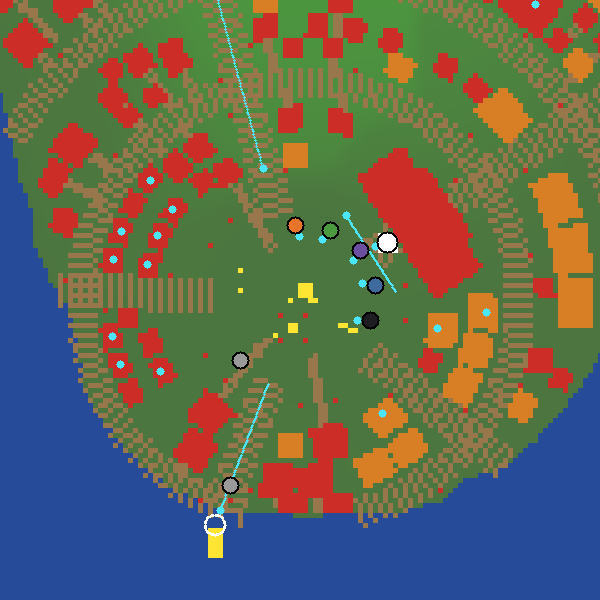
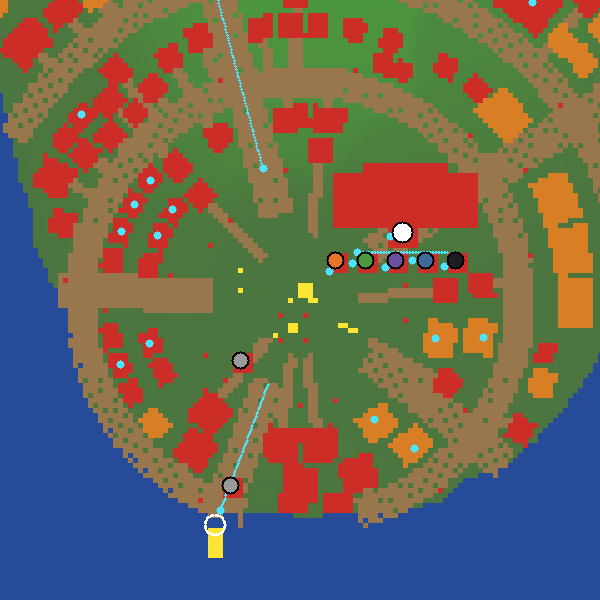
FACTIONS: the hall, boards and benches on the BuildGrid, facing south (owner rule)
The hall stands north-east of the square, east of the road north, front to the south; the five
faction stalls stand in a row before it; benches snap to tiles in 90 degree steps. Router pads
round the boards and desk.

diff --git a/docs/orchestration/reports/claude-factions.md b/docs/orchestration/reports/claude-factions.md
@@ -56,9 +56,10 @@ for each: a look, values, a mission list, rank unlocks and a desk in the hall.
     unchanged.
 - **Faction Hall** (tutorial town):
   - `Tutorial._faction_plaza`: the desk (TownGuild, role `guild` kept, named "Faction Hall") stands
-    across the square from the dock, 30 degrees off the dock line (HALL_DEG 210), so the road north
-    to the water stays open.
-  - Seven `faction_board` TownBuildings (`sign`): five faction boards in an arc in front of the hall
+    north-east of the square, east of the road north to the water so that road stays open. All of it
+    sits on the 1 m BuildGrid facing south, the placer's default (owner rule 2026-10-30); benches turn
+    only in 90 degree steps.
+  - Seven `faction_board` TownBuildings (`sign`): five faction boards in a row in front of the hall
     in banner order, one on the square's dock side, and one by the dock arrival. Tapping a board opens
     the Factions screen on its faction. The desk opens the tutorial orders while the tutorial runs,
     then the Factions screen.
@@ -114,7 +115,7 @@ for each: a look, values, a mission list, rank unlocks and a desk in the hall.
     of the board arc.
 - **Footprint map**: `docs/orchestration/reports/factions/plaza_footprint.png` (written by
   `game/scripts/dev/faction_plaza_map.gd`, headless). Dock at the bottom; the white desk with the hall
-  behind it; the five board colours in an arc; grey general boards; the crowd and walkers in cyan.
+  behind it; the five board colours in a row; grey general boards; the crowd and walkers in cyan.
 - **Windowed shots**: `docs/orchestration/reports/factions/hall_{hall,boards,plaza,dock}_{1600x900,844x390}.png`
   and `factions_company_*`, `factions_forum_receive_*`. They come from
   `game/scripts/dev/faction_shots_probe.gd`; run it with

diff --git a/docs/design/factions.md b/docs/design/factions.md
@@ -138,12 +138,12 @@ The tutorial town's guild hall becomes the **Faction Hall**. Its tap role stays 
 which keeps the tutorial pointer and map markers working, and every name shown in the game is
 "Faction Hall".
 
-- **Placement**: the hall stands across the plaza from the dock, facing it, turned 30 degrees off the dock line so the road north out of town stays open (`Tutorial.HALL_DEG`, FA11). A survivor stepping off the
+- **Placement**: the hall stands on the north-east side of the square, east of the road north out of town so that road stays open (`Tutorial.HALL_DESK`, FA11). Like every town building, it follows the player's building rules (owner 2026-10-30): it sits on the 1 m BuildGrid, faces south (the placer's default) and turns only in 90 degree steps. A survivor stepping off the
   ferry walks straight up the harbour avenue, across the plaza and into the hall. This is the arrival
   flow.
 - **Building**: a 14 x 9 m two-storey stone hall with two one-storey wings. Five faction banners hang
   on the front on tall poles in the faction colours, and lamps light the door.
-- **Boards**: five faction stalls stand in an arc in front of the hall, one per faction. Each has a
+- **Boards**: five faction stalls stand in a row in front of the hall, all facing south, one per faction. Each has a
   canvas in that faction's colour and a tappable board that opens the Factions screen on that faction.
   Two more general mission boards stand at the dock arrival and at the plaza's far side, so a crowd at
   the hall door is never the only place to take work (FA11). That makes seven tap points in all.

diff --git a/docs/vision/WildLandsMMO_Open_Questions.md b/docs/vision/WildLandsMMO_Open_Questions.md
@@ -277,7 +277,7 @@ Source: `docs/design/factions.md`, data `game/data/world/factions.json`, branch 
 | **FA8** | Rerolls deferred; the daily rotation stands in. | | |
 | **FA9** | The Task screen keeps 5 tabs; faction missions live on the Factions screen (Tasks category `faction`). | `Tasks.CATS` | One line to add a tab. |
 | **FA10** | Faction missions waiting to be received count in the HUD Tasks badge. | `Tasks.claimable_count` | |
-| **FA11** | The plaza has 7 boards: 5 faction stalls in an arc before the hall plus 2 general boards (dock, plaza far side). | `tutorial.gd dress` | Crowd spread on a busy server. |
+| **FA11** | The plaza has 7 boards: the hall NE of the square (desk at +19, -15 m from the camp), 5 faction stalls in a row before it, all on the grid facing south (owner rule) plus 2 general boards (dock, plaza far side). | `tutorial.gd dress` | Crowd spread on a busy server. |
 | **FA12** | 8 milling survivors on the plaza (own cap and RNG, on top of the 16 townsfolk), groups at the boards and walkers dock -> hall. | `town_dress.gd` | Perf budget. |
 | **FA13** | Career guide targets: ten_recipes = any 10 crafts; three_climates = 3 island landings; build_house = a log shelter. | `radio_university.missions` | The PRD names the guides, not their checklists. |
 | **FA14** | Rank-up crate = one of each item in the rank's band; overflow goes to home cargo. | `Factions.add_rep` | PRD: "3 items per rank band, some RNG". |

diff --git a/docs/current/tutorial.md b/docs/current/tutorial.md
@@ -62,8 +62,8 @@ Rewards per order: 15-60 XP and 0-3 T-stones (the json). No taming order.
 - Town (`Tutorial.dress`, around the camp): the camp's fire, workbench, shed and cargo chest, plus
   `TownBuilding`s — the Faction Hall desk (`log_shelter` model, role guild, straight across the
   square from the dock: tap opens the Orders sheet while the tutorial runs, then the Factions
-  screen), seven faction boards (`sign`, role faction_board: five faction stalls in an arc before
-  the hall, one on the square's dock side, one by the dock arrival; tap opens the Factions screen
+  screen), seven faction boards (`sign`, role faction_board: five faction stalls in a row before
+  the hall, on the grid, facing south, one on the square's dock side, one by the dock arrival; tap opens the Factions screen
   on that faction; FACTIONS, `docs/design/factions.md` §6), Market stall (`fishing_stand`, role market: tap opens the Island Market), signpost,
   barrel, crates — a stone fire pit and a drying rack. All `persist_building = false`: never saved,
   `StructureHealth.is_structure` false (no damage), pack-up refused, grid cells occupied.
